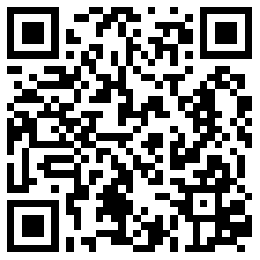
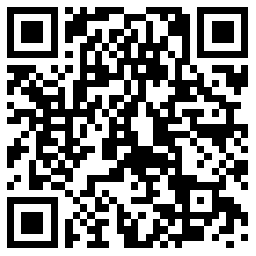
'change'

diff --git a/cv/index.html b/cv/index.html
@@ -5,9 +5,9 @@
     <meta charset="UTF-8">
     <meta name="viewport"
         content="width=device-width,initial-scale=1,minimum-scale=1,maximum-scale=1,user-scalable=no,viewport-fit=cover">
-    <title>王宇杰-应聘前端开发-2020</title>
+    <title>王宇杰-应聘前端开发-2021</title>
     <link rel="stylesheet" href="./CSS/reset.css">
-    <link rel="stylesheet" href="./CSS/sytle.css">
+    <link rel="stylesheet" href="./CSS/style.css">
 </head>
 
 <body>
@@ -25,7 +25,7 @@
                         <ul>
                             <li><span>姓名</span><span>王宇杰</span></li>
                             <li><span>性别</span><span>男</span></li>
-                            <li><span>年龄</span><span>23</span></li>
+                            <li><span>年龄</span><span>24</span></li>
                             <li><span>学历</span><span>专科</span></li>
                             <li><span>英语水平</span><span>CET-4</span></li>
                         </ul>
@@ -39,12 +39,14 @@
                                 <svg class="icon" aria-hidden="true">
                                     <use xlink:href="#icon-telephone"></use>
                                 </svg>
-                                <a href="tel:15967537583">15336522825</a></li>
+                                <a href="tel:15967537583">15336522825</a>
+                            </li>
                             <li>
                                 <svg class="icon" aria-hidden="true">
                                     <use xlink:href="#icon-wechat"></use>
                                 </svg>
-                                <span>Eternatus</span></li>
+                                <span>Eternatus</span>
+                            </li>
                             <li>
                                 <svg class="icon" aria-hidden="true">
                                     <use xlink:href="#icon-email"></use>
@@ -128,7 +130,8 @@
                                         <div class="achieve">
                                             <span><strong>实现功能:</strong> 深入研究Vue3,使用了<span
                                                     class="high-light">setup,onMounted,watchEffect,ref,computed</span>等compositionAPI。
-                                            </span>模块化的源代码简洁明了，易于阅读。</span>
+                                            </span>模块化的源代码简洁明了，易于阅读。
+                                    </span>
                                     </span>我还推出了官方文档，可在线查看代码，并<span class="high-light">支持PC和手机浏览</span></span>。
 
                                 </div>
@@ -149,11 +152,11 @@
                                     <div>手机预览请扫码</div>
                                     <img src="./images/account_vue.png" alt="二维码">
                                 </div>
-                                <a href="" target="_block">React版源码</a>
-                                <a href="" target="_block" id="preview-react">React版预览</a>
+                                <a href="https://github.com/wyjzst/morney-react" target="_block">React版源码</a>
+                                <a href="https://github.com/wyjzst/morney-react-website" target="_block" id="preview-react">React版预览</a>
                                 <div class="QRcode account_react">
                                     <div>手机预览请扫码</div>
-                                    <!-- <img src="./images/account_react.png" alt="二维码"> -->
+                                     <img src="./images/account_react.png" alt="二维码">
                                 </div>
                             </div>
                         </div>
@@ -162,7 +165,7 @@
                             <span><strong>项目介绍:</strong>福星记账是一款极简的记账产品，该项目共实现了两个版本：<span
                                     class="high-light">Vue版</span>和<span
                                     class="high-light">React版</span>，两个版本源代码均使用<span
-                                    class="high-light">TypeScript</span>开发实现，两个不同的框架实现相同的界面。React版目前还在开发中,暂未部署上线。
+                                    class="high-light">TypeScript</span>开发实现，两个不同的框架实现相同的界面。
                             </span>
                         </div>
                         <div class="achieve">
@@ -257,9 +260,14 @@
                 <div class="work">
                     <h2>工作经历</h2>
                     <div>
-                        <span>2019.1-2020.6</span>
-                        <span>杭州知尚服饰有限公司(与前端相关类工作)</span>
+                    <span>2021.3-2021.7</span>
+                    <span>杭州思锐信息技术股份有限公司</span>
                     </div>
+                    <div>
+                        <span>2020.1-2021.2</span>
+                        <span>杭州知尚服饰有限公司</span>
+                    </div>
+
                 </div>
             </section>
             <section>
